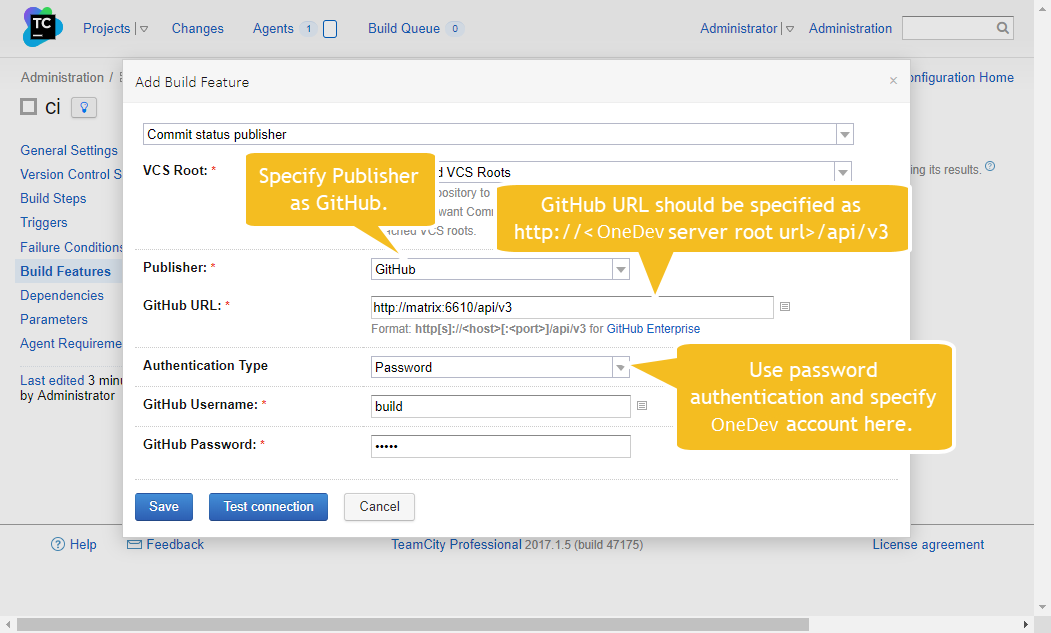
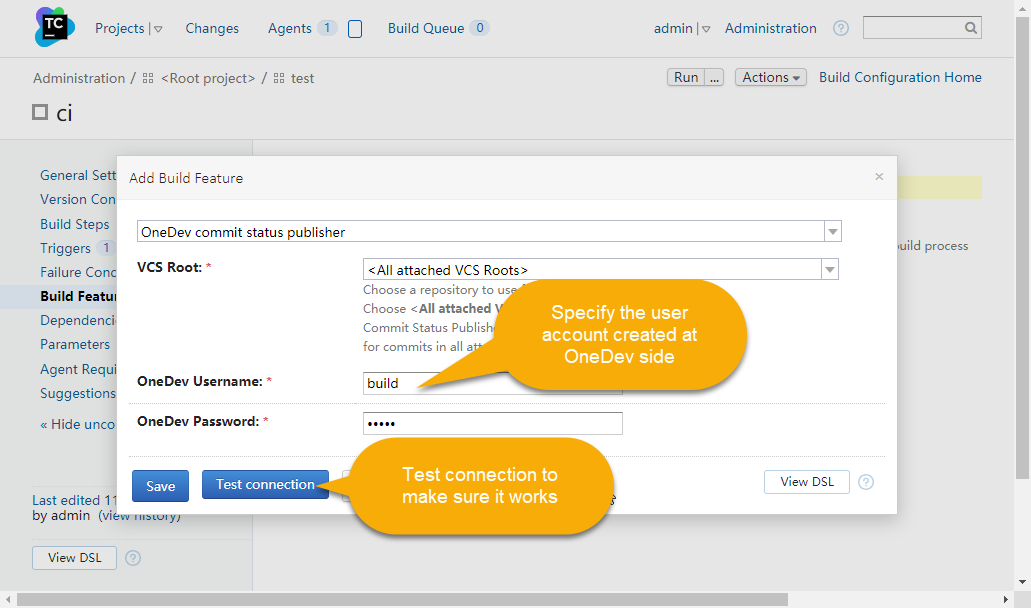
Update TeamCity integration

diff --git a/Teamcity.md b/Teamcity.md
@@ -7,7 +7,10 @@ Assume we have a project named _test_ at OneDev side. The clone url is http://ma
 1. At OneDev side, add an user to be used by TeamCity to access the _test_ project. This user should have _Code Write_ permission over the project.
    
     ![onedev-build-account.png](images/onedev-build-account.png)
-	
+
+1.  At TeamCity side, install [OneDev integration plugin](https://github.com/theonedev/teamcity-plugin/releases/download/v1.0.0/onedev-integration.zip). Refer to 
+    [TeamCity plugin installation guide](https://confluence.jetbrains.com/display/TCD18/Installing+Additional+Plugins) on how to install custom plugin
+     	 	
 1.  At TeamCity side, create a _test_ project manually like below:
      
      ![teamcity-create-project.png](images/teamcity-create-project.png)
@@ -24,13 +27,11 @@ Assume we have a project named _test_ at OneDev side. The clone url is http://ma
     
 1. At TeamCity side, add appropriate build steps to the _ci_ configuration as necessary
 
-1. At TeamCity side, add build feature of type _commit status publisher_ like below:
+1. At TeamCity side, add build feature of type _OneDev commit status publisher_ like below:
 
     ![teamcity-add-build-feature.png](images/teamcity-add-build-feature.png)
     
-    OneDev mimics some GitHub RESTful api, so we can use GitHub publisher here.
-    
-1. At OneDev side, add a build configuration corresponding to TeamCity project and configuration like below:
+1. At OneDev side, add a build configuration with the same name as TeamCity configuration like below:
 	
     ![teamcity-build-configuration.png](images/teamcity-build-configuration.png)
 	
@@ -50,19 +51,15 @@ Assume we have a project named _test_ at OneDev side. The clone url is http://ma
 
     ![teamcity-add-trigger.png](images/teamcity-add-trigger.png)
    
-1. At OneDev side, add a pull request build configuration corresponding to TeamCity project and configuration like below:
-	
-    ![teamcity-pullrequest-build-configuration.png](images/teamcity-pullrequest-build-configuration.png)
-   
 1. At OneDev side, add a branch protection rule to require TeamCity build.
 
-    ![teamcity-branch-protection.png](images/teamcity-branch-protection.png)
+    ![branch-protection-build.png](images/branch-protection-build.png)
     
     For brevity, we do not specify any mandatory reviewers here. The pull request will be merged automatically (unless the merge strategy is specified as "Do Not Merge") after build succeeds. 
         
 1. Now let's create a pull request to test the setup.
 
-    ![pullrequest-waiting-teamcity-build.png](images/pullrequest-waiting-teamcity-build.png)
+    ![pullrequest-waiting-build.png](images/pullrequest-waiting-build.png)
 
     We will see that the pull request is waiting for TeamCity to build it. After TeamCity builds successfully, the pull request will be merged automatically. 
     

diff --git a/Build-Server-Integration.md b/Build-Server-Integration.md
@@ -1,0 +1,11 @@
+OneDev provides standard git repository access, and you may configure your build server to checkout and build OneDev project via normal git repository. 
+Additionally, build information from some build servers can be fed into OneDev to provide additional functionalities including:
+* Display build status on commit and branch
+* Provide build service in branch protection setting
+* Cross reference between code, issues and builds
+
+Below is the list of build servers able to feed build information into OneDev, with set up instructions:
+
+1. [Quickbuild](Quickbuild)
+2. [Jenkins](Jenkins)
+3. [TeamCity](Teamcity)

diff --git a/Project-Administration.md b/Project-Administration.md
@@ -1,4 +1,4 @@
 * [Create New Project](Create-New-Project)
 * [Fork Existing Project](Fork-Existing-Project)
 * [Project Authorization](Project-Authorization)
-* [Continuous Integration Set Up](CI-Setup)
+* [Build Server Integration](Build-Server-Integration)
